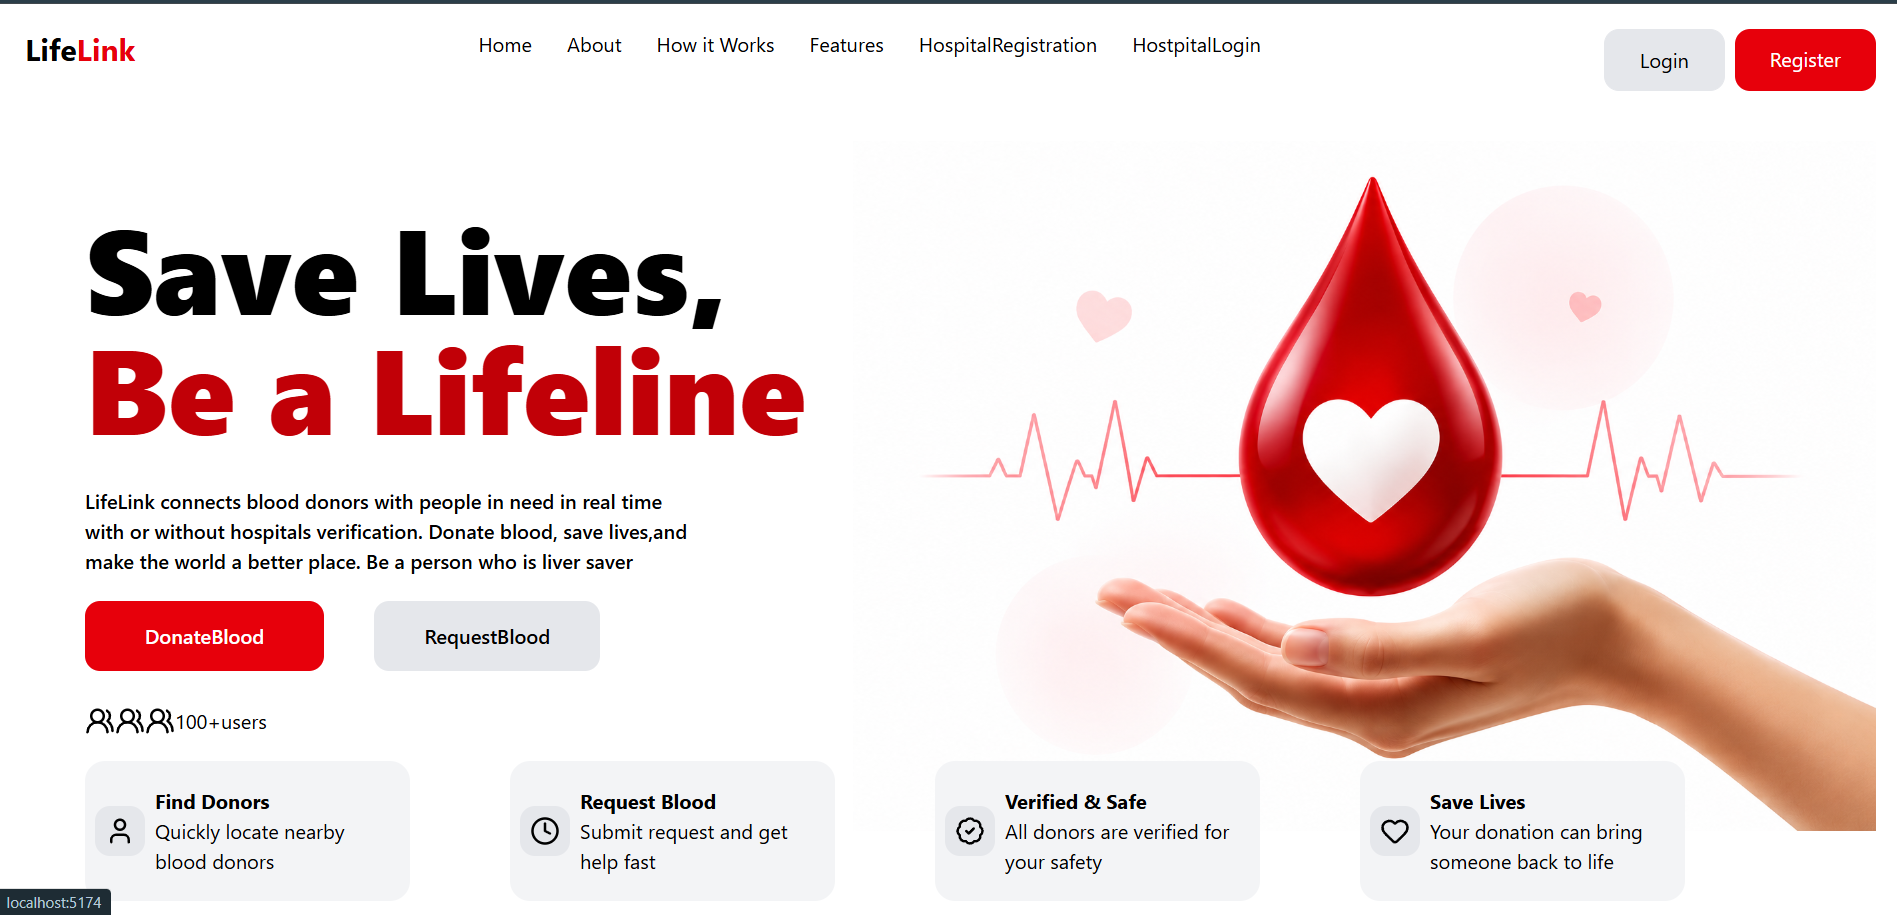
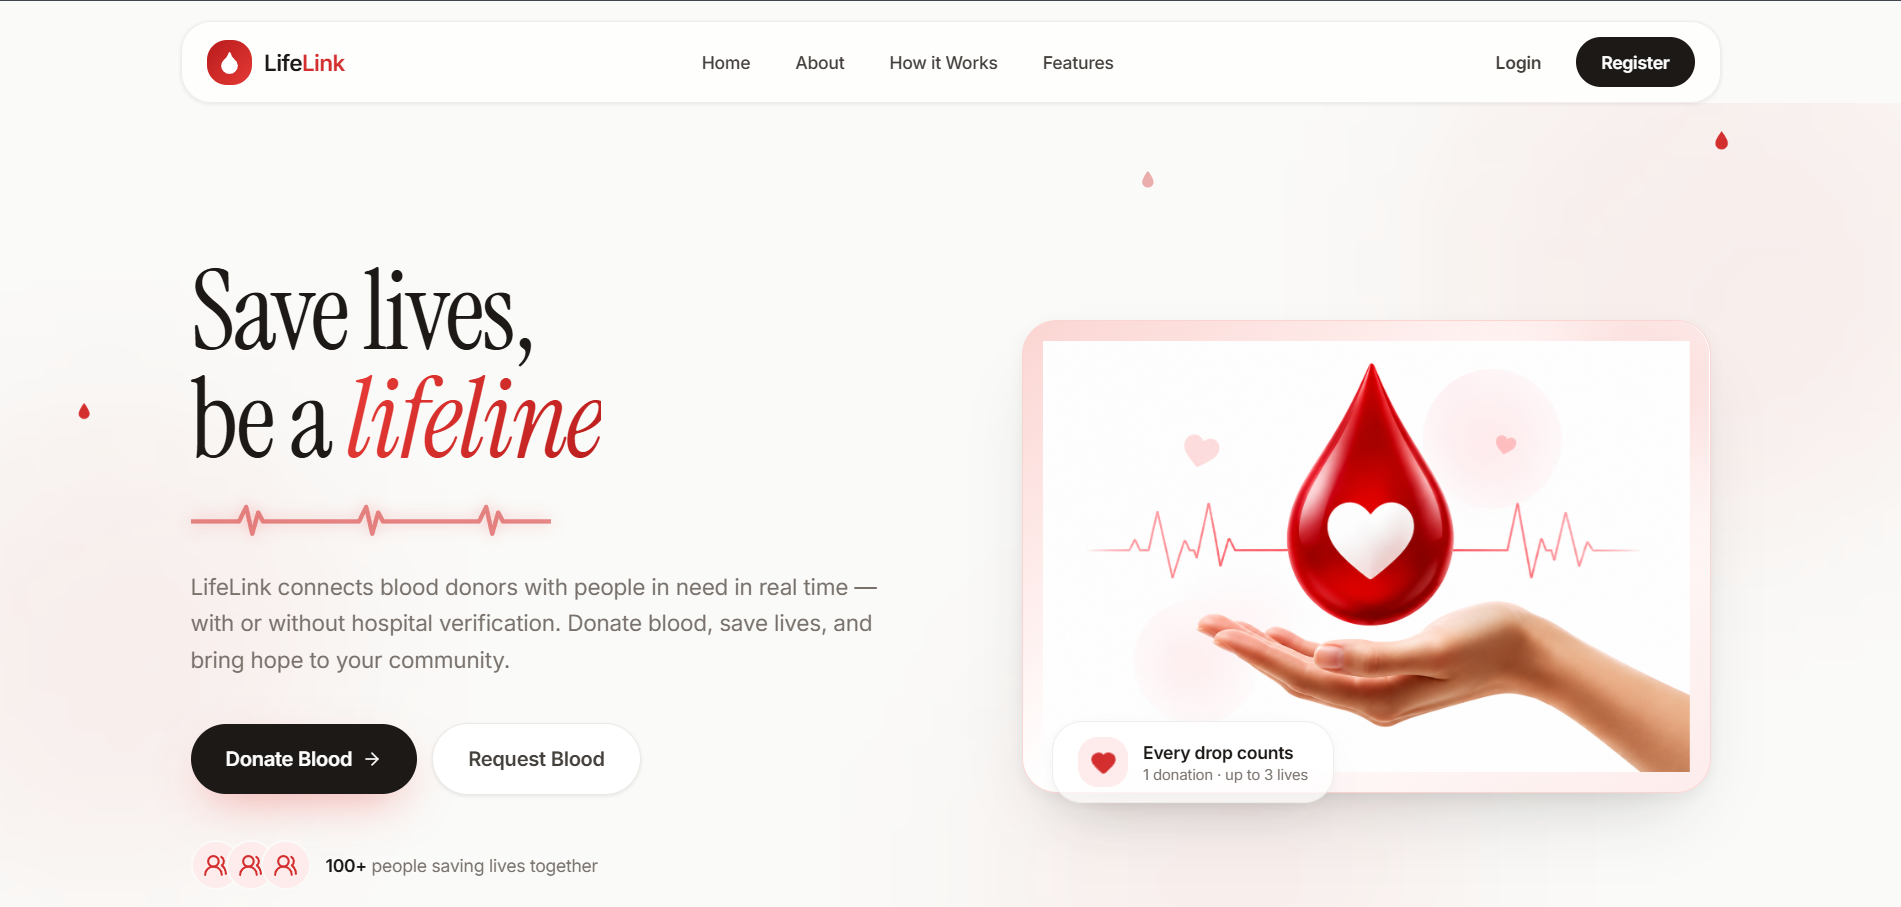
added bloggin app project

diff --git a/src/pages/projects.jsx b/src/pages/projects.jsx
@@ -4,25 +4,47 @@ import demovideo from '../assets/weatherappdemo.mp4'
 import portfoliovideo from '../assets/portfolioproject.mp4'
 import crud from '../assets/CRUD.jpg'
 import lifelink from '../assets/lifelink.png'
+import Bloggingapp from '../assets/Bloggingapp.png'
 
 
 const Projects = () => {
   return (
-    <div id="projects" className="">
+    <div id="projects" className="mt-50">
       <div className="text-white md:not-first:m-30 text-center">
         <motion.h2 className="text-4xl font-extrabold"
           initial={{ opacity: 0, y: 20 }}
           whileInView={{ opacity: 1, y: 0 }}
         >My Works</motion.h2>
         <div>
-          
           <motion.div className="flex justify-between mt-20 flex-col md:flex-row"
-          initial = {{opacity: 0 , y: 20}}
-          whileInView = {{opacity: 1, y: 0}}>
+            initial={{ opacity: 0, y: 20 }}
+            whileInView={{ opacity: 1, y: 0 }}>
+            <div></div>
+            <div>
+              <p className="flex justify-between md:ml-60 mb-10 font-bold text-2xl">Blogging App</p>
+              <img src={Bloggingapp}
+                className="w-150 h-70 object-cover"
+              />
+            </div>
+            <div className="mt-10 md:flex-col">
+              <h2 className="font-bold text-2xl">Tech Stack</h2>
+              <p>ReactJS , Framer-motion , ExpressJS , MongoDB , JWT Authentication </p>
+              <h2 className="text-2xl font-bold mt-10 ">Description</h2>
+              <p className="md:w-120 mb-10">
+                Created an Full stack web application in which user can create there account and create a blog post and can see other users blog posts. Implemented JWT Authentiation and Bcrypt for passwords security
+              </p>
+              <a href="https://github.com/Project-Lifelink/LifeLink-Frontend" className="md:w-100 font-bold md:px-30 border-1 py-3 rounded-4xl hover:bg-white hover:text-black">View On GitHub</a>
+            </div>
+            <div></div>
+          </motion.div>
+
+          <motion.div className="flex justify-between mt-20 flex-col md:flex-row"
+            initial={{ opacity: 0, y: 20 }}
+            whileInView={{ opacity: 1, y: 0 }}>
             <div></div>
             <div>
               <p className="flex justify-between md:ml-60 mb-10 font-bold text-2xl">LifeLink</p>
-              <img src = {lifelink}
+              <img src={lifelink}
                 className="w-150 h-70 object-cover"
               />
             </div>
@@ -38,8 +60,8 @@ const Projects = () => {
             <div></div>
           </motion.div>
           <motion.div className="flex justify-between mt-20 flex-col md:flex-row"
-          initial = {{opacity: 0 , y: 20}}
-          whileInView = {{opacity: 1, y: 0}}>
+            initial={{ opacity: 0, y: 20 }}
+            whileInView={{ opacity: 1, y: 0 }}>
             <div></div>
             <div>
               <p className="flex justify-between md:ml-50 mb-10 font-bold text-2xl">Weather App</p>
@@ -61,20 +83,20 @@ const Projects = () => {
             </div>
             <div></div>
           </motion.div>
-          
+
           <motion.div className="flex justify-between mt-20 flex-col md:flex-row"
-          initial = {{opacity: 0 , y: 20}}
-          whileInView = {{opacity: 1, y: 0}}>
+            initial={{ opacity: 0, y: 20 }}
+            whileInView={{ opacity: 1, y: 0 }}>
             <div></div>
             <div>
-              <p className="flex justify-between md:ml-30 mb-10 font-bold text-2xl">CRUD Application in Backend</p>
-              <img src = {crud}
+              <p className="flex justify-between md:ml-10 mb-10 font-bold text-2xl">CRUD and Authentication System in Backend</p>
+              <img src={crud}
                 className="w-150 h-70 object-cover"
               />
             </div>
             <div className="mt-10 md:flex-col">
               <h2 className="font-bold text-2xl">Tech Stack</h2>
-              <p>ExressJS , MongoDB</p>
+              <p>ExressJS , MongoDB , JWT Authentication</p>
               <h2 className="text-2xl font-bold mt-10 ">Description</h2>
               <p className="md:w-120 mb-10">This is an CRUD Application made in Backend using ExpressJS and MongoDB Atlas it store data online on google cloud. Basically it can take information from patient or blood donor and store it on the database and can update , change , delete their data based or requests made to server.  </p>
               <a href="https://github.com/anuragsinghofficial2611/LifeLink-Database-Demo" className="md:w-100 font-bold md:px-30 border-1 py-3 rounded-4xl hover:bg-white hover:text-black">View On GitHub</a>
@@ -82,8 +104,8 @@ const Projects = () => {
             <div></div>
           </motion.div>
           <motion.div className="flex justify-between mt-20 flex-col md:flex-row"
-          initial = {{opacity: 0 , y: 20}}
-          whileInView = {{opacity: 1, y: 0}}>
+            initial={{ opacity: 0, y: 20 }}
+            whileInView={{ opacity: 1, y: 0 }}>
             <div></div>
             <div>
               <p className="flex justify-between md:ml-45  mb-10 font-bold text-2xl">Personal Portfolio</p>
@@ -100,15 +122,15 @@ const Projects = () => {
               <h2 className="font-bold text-2xl">Tech Stack</h2>
               <p>ReactJS , TailwindCSS , Framer Motion</p>
               <h2 className="text-2xl font-bold mt-10 m">Description </h2>
-              <p className = "md:w-120 mb-10">This is personal portfolio project to showcase skills and show people about myself and my acheivments to show my capabilities made by ReactJS designed by TailwindCSS and animated through framer motion</p>
+              <p className="md:w-120 mb-10">This is personal portfolio project to showcase skills and show people about myself and my acheivments to show my capabilities made by ReactJS designed by TailwindCSS and animated through framer motion</p>
               <a href="https://github.com/anuragsinghofficial2611/Portfolio" className="md:w-100 font-bold border-1 md:px-30 py-3 rounded-4xl hover:bg-white hover:text-black">View On GitHub</a>
             </div>
             <div></div>
           </motion.div>
           <motion.div
-          initial = {{y: 20, opacity: 0}}
-          whileInView = {{y: 0, opacity: 1}}
-           className = "text-center text-2xl font-bold md:m-40">Currently Working on Many more projects.......</motion.div>
+            initial={{ y: 20, opacity: 0 }}
+            whileInView={{ y: 0, opacity: 1 }}
+            className="text-center text-2xl font-bold md:m-40">Currently Working on Many more projects.......</motion.div>
 
         </div>
       </div>
